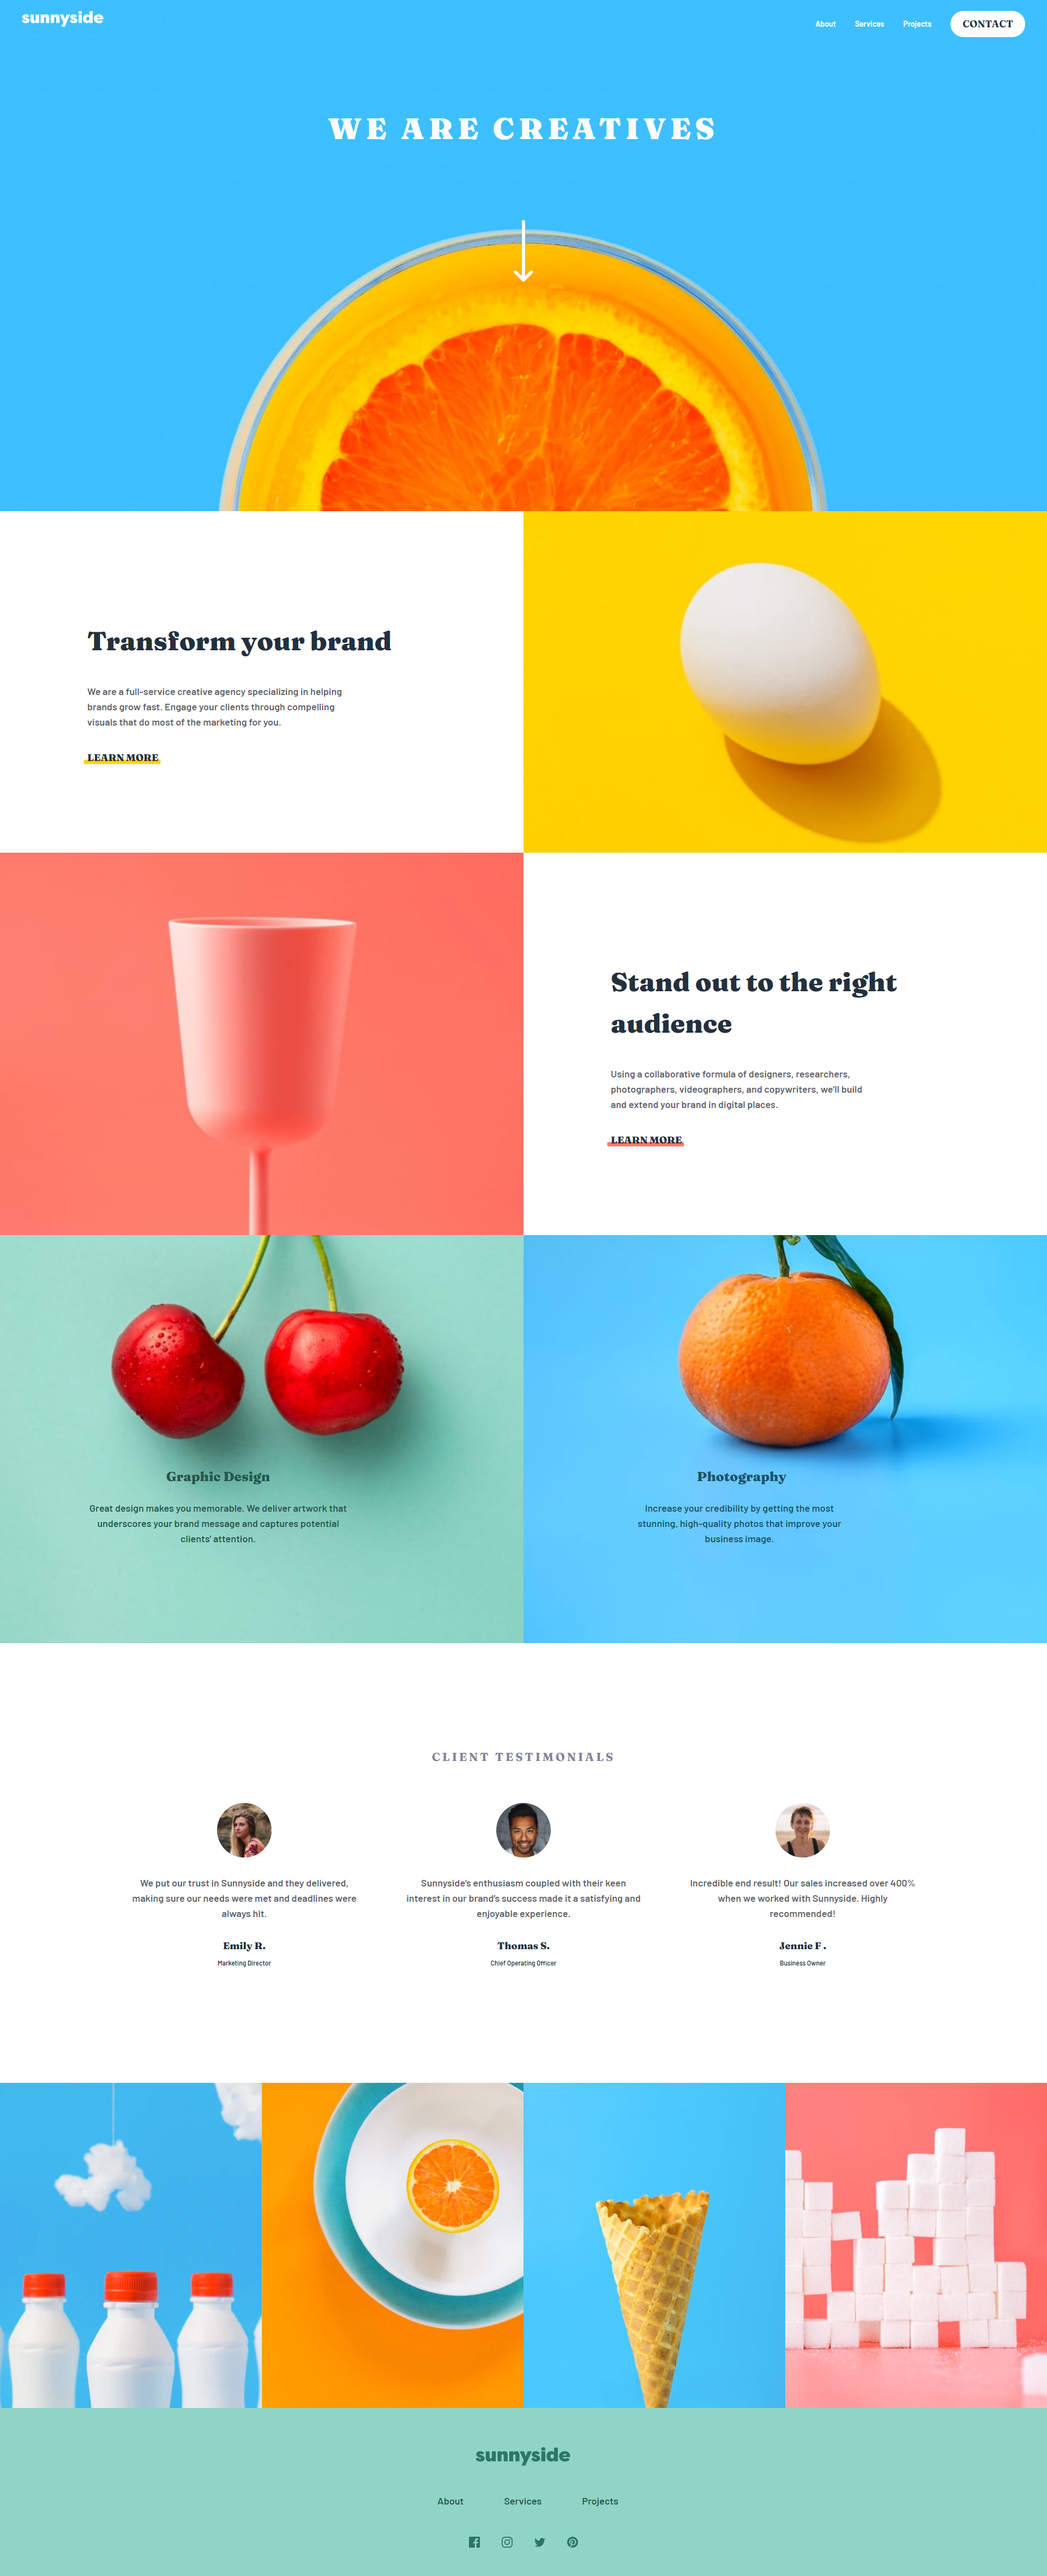
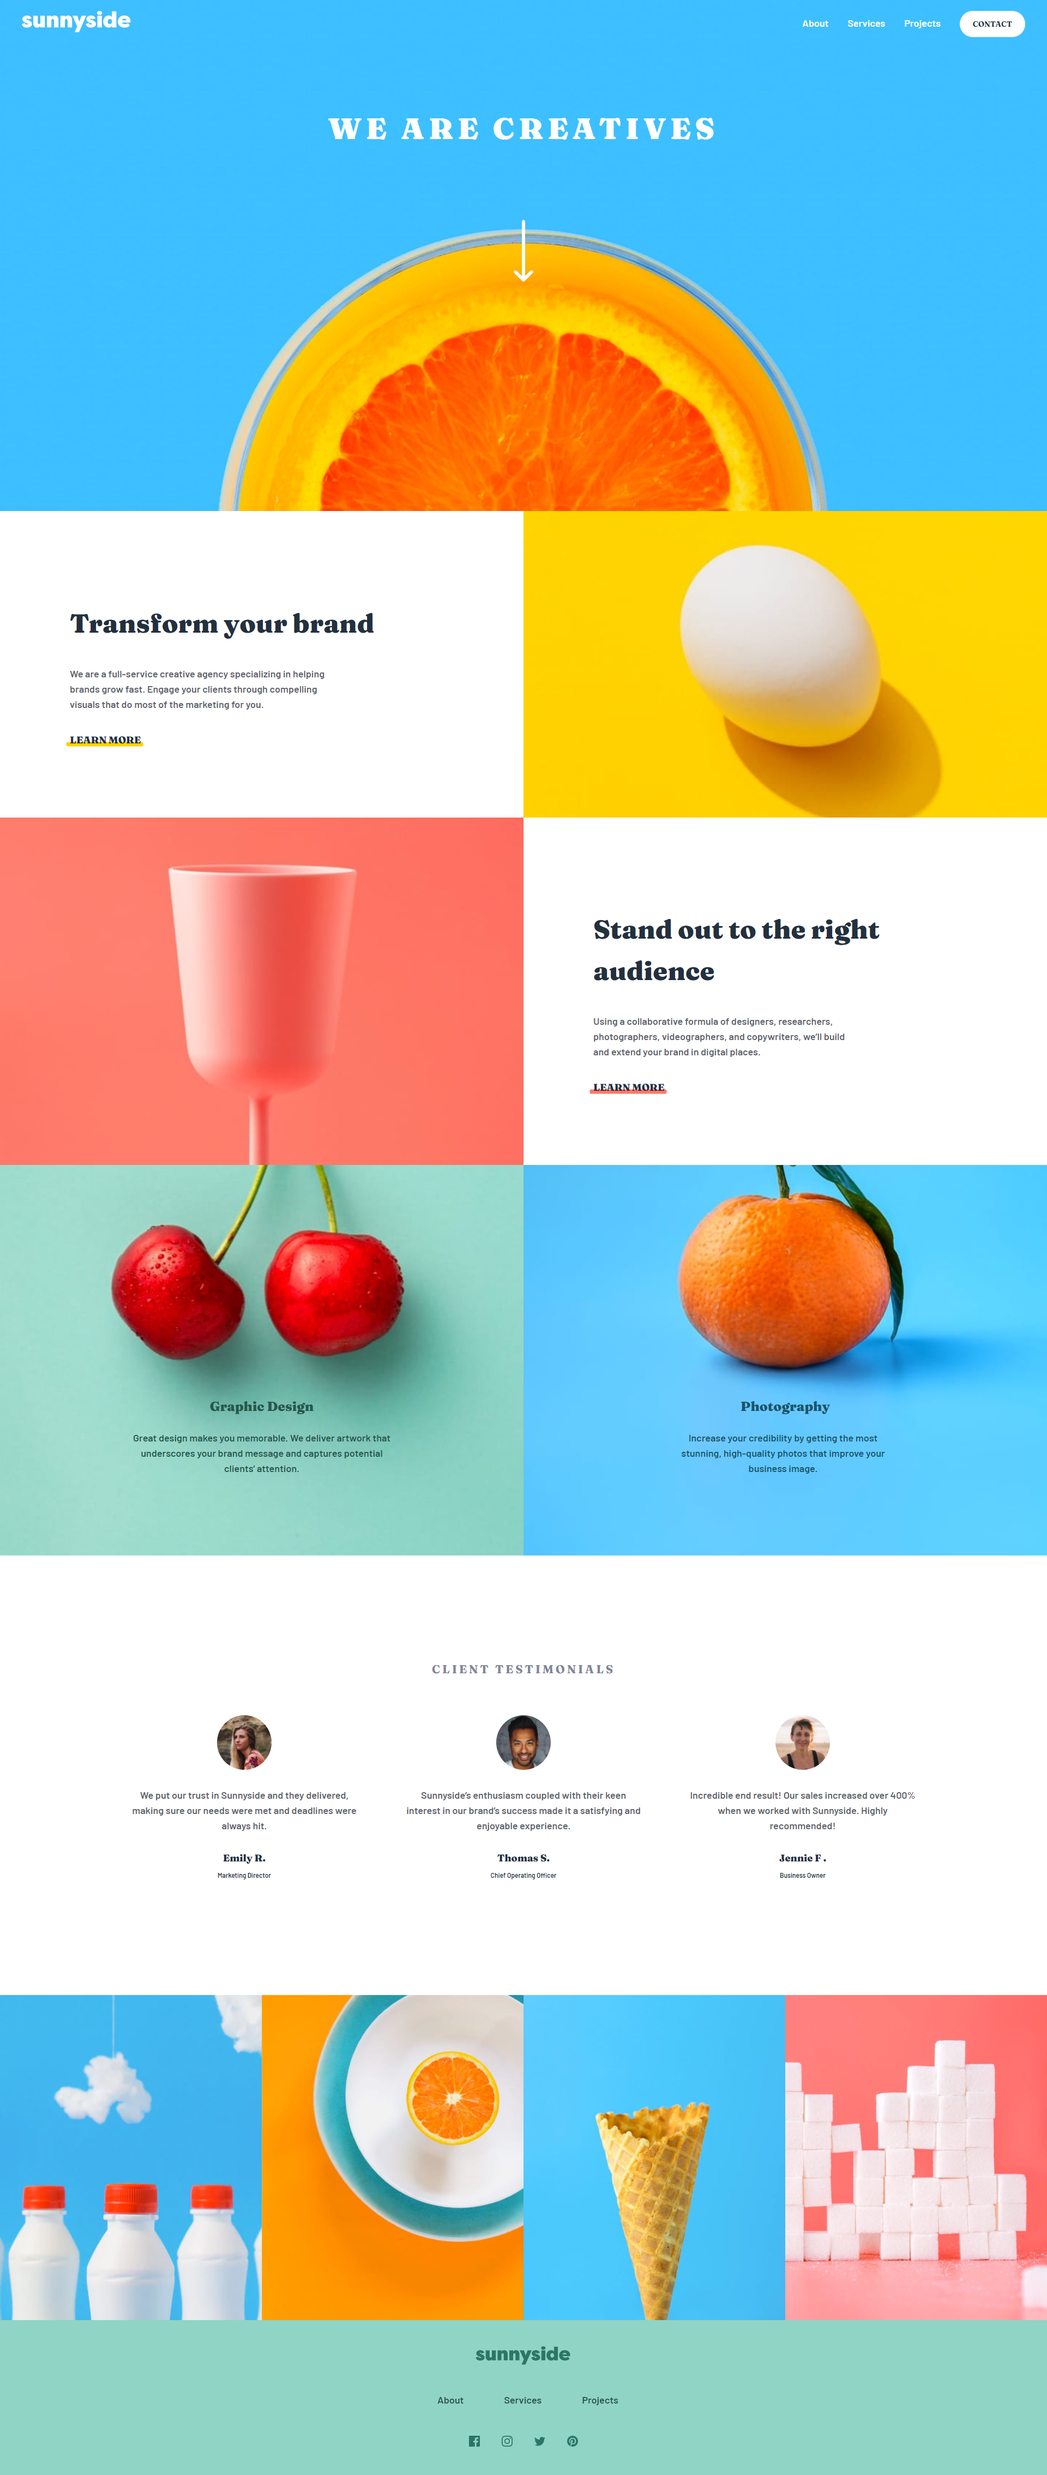
updated html and css files

diff --git a/style.css b/style.css
@@ -103,7 +103,7 @@ main .header {
   color: var(--white);
   font-weight: lighter;
   font-family: var(--font-barlow);
-  font-size: 14px;
+  font-size: 18px;
 }
 .header .main-header .navbar .menu .contact {
   background: var(--white);
@@ -113,9 +113,10 @@ main .header {
   outline: none;
   vertical-align: middle;
   display: inline-block;
-  padding: 14px 22px;
+  padding: 16px 24px;
   border-radius: 40px;
   cursor: pointer;
+  font-size: 14px;
   transition: background 0.3s ease;
 }
 .header .main-header .navbar .menu .contact:hover {
@@ -138,7 +139,7 @@ main .header {
 .second-container .second-item,
 .third-container .first-item,
 .third-container .second-item {
-  padding: 10rem;
+  padding: 8rem;
 }
 .first-container .second-item,
 .second-container .first-item,
@@ -227,6 +228,7 @@ main .header {
 .third-container .first-item,
 .third-container .second-item {
   padding-top: 25rem;
+  padding-left: 15rem;
 }
 
 .third-container .first-item h3,
@@ -338,6 +340,9 @@ main .header {
 }
 main .header .text-center {
   margin-top: 124px;
+}
+#logo img {
+  width: 200px;
 }
 /* ==================================== */
 
@@ -512,6 +517,9 @@ main .header .text-center {
     cursor: pointer;
     margin: 10px auto;
     transition: background 0.3s ease;
+  }
+  #logo img {
+    width: 100px;
   }
 }
 

diff --git a/index.html b/index.html
@@ -39,21 +39,17 @@
     </style>
   </head>
   <body>
-    <main role="main">
+    <main>
       <section class="header">
-        <header
-          class="main-header"
-          role="heading"
-          aria-roledescription="header"
-        >
-          <nav class="navbar" role="navigation">
+        <header class="main-header">
+          <nav class="navbar">
             <div id="logo">
               <img
                 src="./images/logo.svg"
                 alt="logo"
                 class="img-responsive"
-                width="150"
-                height="150"
+                width="200"
+                height="200"
               />
             </div>
             <div class="menu hide-sm">
@@ -272,7 +268,7 @@
         </div>
       </section>
       <footer class="footer">
-        <h1 class="footer-head text-center">
+        <div class="footer-head text-center">
           <svg
             viewBox="0 0 125 50"
             width="200"
@@ -286,7 +282,7 @@
               fill-rule="nonzero"
             ></path>
           </svg>
-        </h1>
+        </div>
         <div class="links">
           <a href="#">About</a>
           <a href="#">Services</a>
